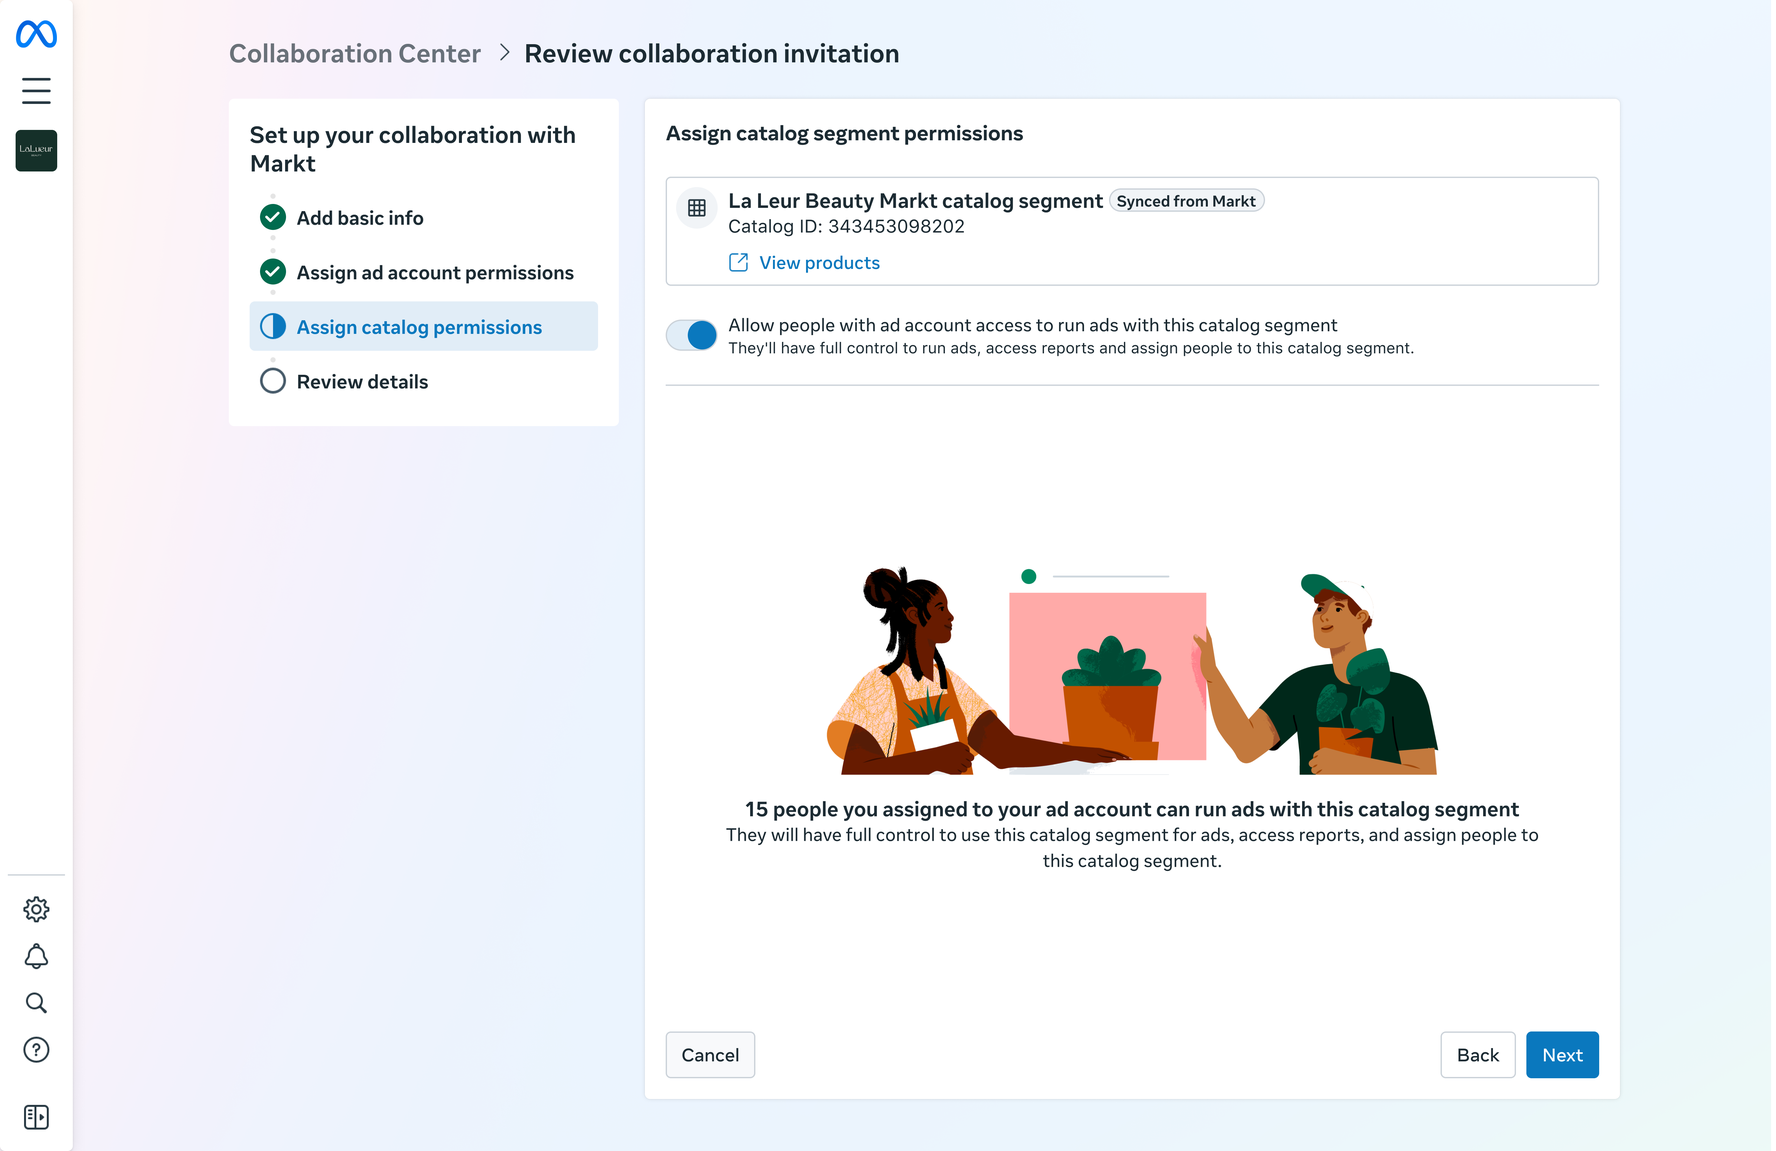
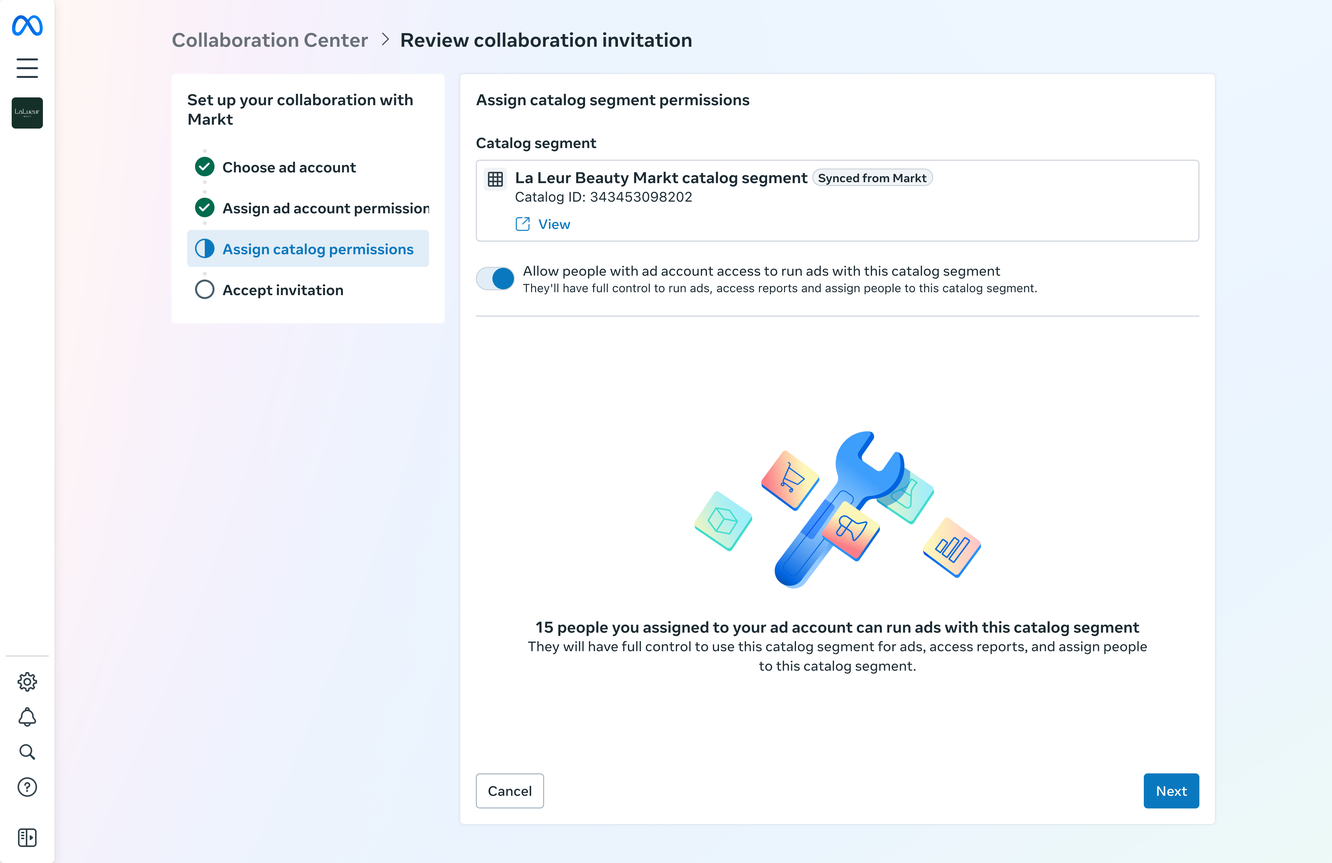
Collab Ads edits
Case study optimisations nad improvements

diff --git a/collab-ads.html b/collab-ads.html
@@ -72,8 +72,8 @@
       <!-- LEFT CONTAINER -->
         <main class="leftContainer">
             <div class="leftContent">
-              <h4 id="featureNumber">01</h4><h3 id="featureTitle" >Collaborative Ads Brand Onboarding</h3>
-              <h2 class="paragraphContinue" id="featureSummary">A two-phase redesign where retailer trust became the key to unlocking a larger structural change.</h2>
+              <h4 id="featureNumber">01</h4><h3 id="featureTitle" >Collaborative Ads Brand Onboarding & Activation</h3>
+              <h2 class="paragraphContinue" id="featureSummary">A two-phase redesign that reduced retailer overhead, rebuilt confidence in the product, and shifted onboarding from retailer-led to brand-initiated.</h2>
             </div>
             <!-- superscript -->
             <div class="leftContent leftImg" id="superContent1">
@@ -95,16 +95,15 @@
         <main class="rightContainer">
           <div class="projectCoverImg"><img src="assets/images/collab-ads/CPAS Cover.png"></div>
           <section class="projectIntroGrid">
-            <h5 id="title">Collaborative Ads Brand Onboarding</h5>
-            <h1 id="summary">A two-phase redesign where retailer trust became the key to unlocking a larger structural change.</h1>
+            <h5 id="title">Collaborative Ads Brand Onboarding & Activation</h5>
+            <h1 id="summary">A two-phase redesign that reduced retailer overhead, rebuilt confidence in the product, and shifted onboarding from retailer-led to brand-initiated.</h1>
             <div id="contributions">
               <h3 class="blockHeading">Key contributions</h3>
               <ul class="blockText paragraphBottom">
-                <li>Redirected Phase 1 before build began. Ran a UX audit, reframed scope around the highest-friction gaps, and got leadership aligned to change direction.</li>
-                <li>Consolidated seven independently scoped initiatives into a single workstream and secured investment for Phase 2 through Design and Product Reviews.</li>
-                <li>Defined the vision for self-serve Collaborative Ads onboarding and co-developed the strategy with PM and engineering.</li>
-                <li>Co-presented onboarding concepts directly to retailer partners and used partner feedback to reshape the implementation strategy.</li>
-                <li>Led design execution across onboarding improvements and the new self-serve experience.</li>
+                <li>Evaluated the existing Phase 1 direction, reframed how key friction points were addressed based on retailer and brand workflows, and secured leadership buy-in before implementation.</li>
+                <li>Unified 7 separately scoped roadmap projects into one workstream, giving the team end-to-end visibility across the problem space and revealing that one initiative was already solved by the proposed direction.</li>
+                <li>Led the vision for a brand-initiated onboarding and activation experience and shaped the strategy with PM and Engineering.</li>
+                <li>Co-presented concepts to retailer partners and used their feedback to reshape the implementation strategy.</li>
               </ul>
             </div>
             <div id="role">
@@ -121,22 +120,26 @@
             </div>
             <div id="overview">
               <hr class="sectionDivider">
-              <p><a href="https://en-gb.facebook.com/business/tools/collaborative-ads" target="_blank"><span class="colorChange bodyLink">Collaborative Ads ↗</span></a> lets brands run ads that direct buyers to their product pages on a retailer's website or app. Three parties are involved: brands run the ads, retailers host the catalog and process the sale, Meta connects them. Before a brand can run any ads, a retailer has to send them a collaboration request, and that process was broken in ways neither side could easily fix on their own.</p>
-              <p class="paragraphContinue paragraphBottom">The deeper problem wasn't just friction. Onboarding was structurally dependent on retailer workflows: retailers initiated requests, managed reviews, and absorbed the operational cost of every new brand they onboarded. More brands meant more retailer work, which naturally incentivised partners to gate access and prioritise their largest advertisers. Most brands discovered the product only when a retailer personally reached out, waited weeks for manual review, and still weren't set up to run their first ad by the end of it.</p>
+              <p><a href="https://en-gb.facebook.com/business/tools/collaborative-ads" target="_blank"><span class="colorChange bodyLink">Collaborative Ads ↗</span></a> lets brands run ads that direct buyers to their products sold through retailer websites and apps. Brands run the ads, retailers own the catalog and fulfil the sale, and Meta connects them.</p>
+              <p class="paragraphContinue">Before a brand could advertise, a retailer had to send them a collaboration invitation. The process was broken in ways neither side could easily fix on their own.</p>
+              <p class="paragraphContinue">The deeper problem wasn't just friction. Onboarding was highly dependent on retailers: retailers initiated requests, managed reviews, and absorbed the operational cost of every new brand they onboarded. More brands meant more retailer work, which incentivised retailers to gate access and prioritise their largest advertisers. Most brands discovered the product only when a retailer reached out, waited weeks for manual review, and still weren't ready to run ads by the end of it.</p>
+              <p class="paragraphContinue paragraphBottom">Phase 1 reduced retailer overhead and rebuilt confidence in Collaborative Ads. Phase 2 shifted onboarding from a retailer-managed process to a brand-initiated one.</p>
               <img src="assets/images/collab-ads/how-it-works.png" style="width: 100%; display: block; margin-bottom: 1.5rem;">
-              <p class="paragraphBottom">Retailers had spent years working around a product that hadn't kept pace with their needs. Before asking them to support a more ambitious onboarding model, we needed to demonstrate that we understood the problems they faced every day, and were willing to invest in fixing them. Phase 1 focused on rebuilding that confidence. Phase 2 used it to build something more ambitious.</p>
               <h2>This project is under NDA. Screens shown here have shipped publicly. Full case study is available on request.</h2>
             </div>
             <hr class="sectionDivider">
           </section>
-           <section class="projectContent">
+           <!-- <section class="projectContent">
             <h5 class="projectHeading">Why onboarding mattered</h5>
             <p class="projectText">Collaborative Ads had limited opportunities for product-led growth. Most performance improvements depended on broader ads infrastructure outside the team's control. Onboarding was different: increasing the number of brands using Collaborative Ads was the highest-leverage growth opportunity the team could directly influence, and new brand acquisition had been slowing for two years. That made onboarding the focal point for investment.</p>
             <p class="projectText paragraphContinue paragraphBottom">Retailers had spent years working around a product that hadn't kept pace with their needs. Before asking them to support a more ambitious onboarding model, we needed to demonstrate that we understood the problems they faced every day and were willing to invest in fixing them. Phase 1 focused on rebuilding that confidence. Phase 2 used it to make a structural change.</p>
-          </section>
+          </section> -->
           <section class="projectContent">
-            <h5 class="projectHeading">Phase 1: Friction fixes</h5>
-            <p class="projectText paragraphBottom">I joined the team when a solution was already scoped. After running a UX audit and reviewing research, I paused the build, reframed the scope around the gaps that were actually breaking the experience, and got leadership aligned to change direction before any code was written. We shipped improvements to collaboration term enforcement, permissions assignment, and notifications.</p>
+            <h5 class="projectHeading">Phase 1: Reducing retailer overhead</h5>
+            <p class="projectText">When I joined the team, a direction had already been scoped. Before committing to implementation, I audited the retailer and brand experience, reviewed partner feedback, and formed my own view of where the biggest onboarding constraints were. I got leadership and team buy-in to revise the approach before build began.</p>
+            <p class="projectText paragraphContinue">While the friction points were already known, I identified which were worth prioritising in this phase and reshaped how we addressed them. We focused on the changes that would have the greatest impact on retailer and brand workflows, while staying within the constraints of the product and timeline.</p>
+             <p class="projectText paragraphContinue">Retailers had collaboration requirements but no way to enforce them— brands sent screenshots to prove compliance and waited for manual verification. 80% of brands didn't know an invitation was waiting because we never notified them. Permissions were treated as a secondary step, even though assigning access to both the ad account and catalog segment determined whether a brand could run ads at all.</p>
+             <p class="projectText paragraphContinue paragraphBottom">Together, they turned onboarding into a manual, time-consuming process for retailers and left brands waiting weeks to complete setup.</p>
             <img src="assets/images/collab-ads/phase-1-overview.png" style="grid-column: 4 / 9; width: 100%; display: block; margin-bottom: 1.5rem;">
 
             <!-- Highlights -->
@@ -144,40 +147,36 @@
             <div class="deliverablesImg3"><img src="assets/images/collab-ads/set-up-terms.PNG"></img></div>
             <div class="deliverablesImg1"><img src="assets/images/collab-ads/invitation-enforced.png"></img></div>
 
+            <h1 class="deliverablesHeading2">No more manual invitation follow-ups</h1>
+            <div class="deliverablesImg3"><img src="assets/images/collab-ads/email-notifications.png"></img></div>
+            
             <h1 class="deliverablesHeading1">Automate where safe, hold where it matters</h1>
             <div class="deliverablesImg2"><img src="assets/images/collab-ads/ad-account-permissions.PNG"></img></div>
             <div class="deliverablesImg2"><img src="assets/images/collab-ads/catalog-permissions.PNG"></img></div>
-            <p class="deliverablesText2">Not all permissions carry the same risk. Ad account permissions, which involve access to spend and billing, stay manual. Catalog segment permissions, which let a brand's team use retailer products in ads, are <span id="super"><span class="inlineSuperscript">auto-granted to anyone with ad account access.<span class="superscript" id="superSmall" data-note="superContent1">1</span></span></span> The result is that the people responsible for running ads aren't blocked from accessing products the moment setup completes.</p>
+            <p class="deliverablesText2">Ad account permissions, which give teams access to spend and billing, remain manually assigned. Catalog segment permissions, which give access to products, are <span id="super"><span class="inlineSuperscript">auto-granted to anyone with ad account access.<span class="superscript" id="superSmall" data-note="superContent1">1</span></span></span></p>
             
             <!-- Phase 1 Outcomes -->
 
           <h1 class="projectHeading">Results</h1>
           <div class="blockGroup">
-            <h3 class="blockHeading">Outcomes</h3>
-            <ul class="blockText">
-              <li>Onboarding completion rate increased by 13%</li>
-              <li>Reduced operational friction for retailers managing collaborations</li>
-              <li>Contributed to growth in new brands onboarding alongside launch go-to-market efforts</li>
-            </ul>
-
-            <h3 class="blockHeading paragraphContinue">What it unlocked</h3>
             <ul class="blockText paragraphBottom">
-              <li>Retailers began actively promoting Collaborative Ads to brands selling with them</li>
-              <li>Created the trust required to pursue self-serve onboarding</li>
-              <li>Aligned product, GTM, and partner teams around onboarding as the primary growth lever</li>
+              <li>Onboarding completion rate increased by 13%</li>
+              <li>Retailers increased investment in Collaborative Ads and actively promoted it to brands</li>
             </ul>
           </div>
 
           <hr class="sectionDivider">
             
-            <h5 class="projectHeading">Phase 2: Brand initiated onboarding</h5>
-            <p class="projectText">With retailer trust established, I led the vision to restructure onboarding as brand-initiated. Initial concepts required retailer engineering resources and retailer-owned infrastructure to implement. Through partner conversations, we learned that retailers loved the direction, but couldn't commit what the original approach required. That insight shifted the strategy: rather than building an onboarding model that depended on systems outside our control, we redesigned around surfaces Meta owned. Retailers maintained oversight over brand onboarding, but the operational burden was removed.</p>
-            <p class="projectText paragraphContinue paragraphBottom">The final model introduced two paths: a fully self-serve flow for brands whose retailers had launched the model, and a structured collaboration request flow for everyone else.</p>
+            <h5 class="projectHeading">Phase 2: From retailer-led to brand-initiated</h5>
+            <p class="projectText">Phase 1 reduced retailer overhead and rebuilt confidence in the product. With the foundations in place, a harder problem remained: brands could only start using Collaborative Ads if a retailer sent them an invitation.</p>
+            <p class="projectText paragraphContinue">We knew reducing onboarding friction alone wouldn't be enough. I led the vision for an end-to-end experience spanning discovery, onboarding, and activation, bringing Collaborative Ads to the surfaces brands already used and reducing retailer involvement throughout the process.</p>
+            <p class="projectText paragraphContinue">We pitched the concept to our largest retailer partners. All liked the idea, but only one could commit. The others lacked the resources, couldn't meet our timeline, or hadn't launched their own brand portals yet.</p>
+            <p class="projectText paragraphContinue paragraphBottom">That forced a strategic pivot. Rather than relying on retailer-owned surfaces, we shifted the experience to Collaboration Center, Meta's hub for retailer-brand collaborations. It had significantly less traffic, but gave us full control and the ability to scale independently.</p>
             <img src="assets/images/collab-ads/phase-2-overview.png" style="grid-column: 4 / 9; width: 100%; display: block; margin-bottom: 1.5rem;">
 
             <h1 class="deliverablesHeading2">One entrypoint for all brands</h1>
             <div class="deliverablesImg3"><img src="assets/images/collab-ads/form-full.gif"></img></div>
-            <p class="deliverablesText1">Not every retailer could support self-serve onboarding from day one, as making self-serve onboarding available requires bespoke engineering work per retailer. Rather than building separate entry points for different retailer paths, we designed a single form that routes based on retailer selection: self-serve where available, collaboration request where it isn't. The same entry point works for brands or anyone acting on the brand's behalf, including agencies, who manage the majority of Collaborative Ads campaigns.</p>
+            <p class="deliverablesText1">Brands shouldn't need to understand which onboarding model a retailer supports. Rather than creating separate entry points, we designed a single form that routes based on retailer selection: self-serve where available, a guided collaboration request where it isn't.</p>
 
             <h1 class="deliverablesHeading1">Real-time verification</h1>
             <div class="deliverablesImg1"><img src="assets/images/collab-ads/verify-url.gif"></img></div>
@@ -185,26 +184,16 @@
               
             <h1 class="deliverablesHeading3">A direct path to the first ad</h1>
             <div class="deliverablesImg3"><img src="assets/images/collab-ads/run-ads.GIF"></img></div>
-            <p class="deliverablesText3">
-
-36% of brands who completed onboarding never ran an ad. One hypothesis was that there was no clear path to ad creation after setup, the obvious next step. The Overview tab tests that hypothesis: a direct entry point to run a Collaborative Ads campaign with defaults applied, alongside any remaining setup actions, so the path forward is visible the moment setup is done.</p>
+            <p class="deliverablesText3">36% of brands who completed onboarding never ran an ad. One hypothesis was that there was no clear path to ad creation after setup. The Overview tab tests that hypothesis by providing a direct entry point to launch a Collaborative Ads campaign with defaults applied, alongside any remaining setup actions.</p>
 
           <!-- Phase 2 Outcomes -->
            <h1 class="projectHeading">Results</h1>
           <div class="blockGroup">
-            <h3 class="blockHeading">Outcomes</h3>
-            <ul class="blockText">
-              <li>Self-serve onboarding launched with one major retailer partner, with two more implementing the model, together representing a significant share of product revenue</li>
-              <li>Exceeded the daily revenue goal by ~37%</li>
-              <li>Onboarded thousands of new brands in the first weeks post-launch</li>
-            </ul>
-
-            <h3 class="blockHeading paragraphContinue">What it unlocked</h3>
             <ul class="blockText paragraphBottom">
-              <li>Gave retailers a reason to open Collaborative Ads to more brands, as onboarding no longer required proportional effort on their side</li>
-              <li>Our largest retailer made Collaborative Ads available to every brand on their platform for the first time, something the manual overhead had previously made unworkable</li>
-              <li>Created a path for brands to onboard and start advertising without needing retailer involvement</li>
-              <li>Set up the next phase of investment in brand activation and self-serve growth</li>
+              <li>Our largest retailer made Collaborative Ads available to every brand on their platform for the first time.</li>
+              <li>Exceeded the daily revenue goal by ~37%.</li>
+              <li>Onboarded thousands of new brands in the first weeks post-launch.</li>
+              <li>Self-serve onboarding launched with our largest retailer partner, with four more in implementation.</li>
             </ul>
           </div>
 
@@ -212,7 +201,7 @@
 
           <!-- Key Takeaway -->
           <h5 class="projectHeading">Key Takeaway</h5>
-          <p class="projectText paragraphBottom">Phase 1 wasn't just about fixing friction — it was the foundation that made a structural ask possible. Our top retailers extended Collaborative Ads to every brand on their platform because we'd already shown we understood their workflow. Trust isn't a soft outcome, it determines what you can build next.</p>
+          <p class="projectText paragraphBottom">Phase 1 wasn't just about fixing friction, it created the conditions for a larger structural change. Our largest retailer made Collaborative Ads available to every brand on their platform because we'd already shown we understood their workflow and constraints. Trust isn't a soft outcome; it determines what you can build next.</p>
       </section>
     </main>
   </body>

diff --git a/assets/js/script.js b/assets/js/script.js
@@ -209,6 +209,55 @@ $(window).scroll(function() {
   }
 });
 
+/* LIGHTBOX */
+(function() {
+  function initLightbox() {
+    var overlay = document.createElement('div');
+    overlay.className = 'lightbox-overlay';
+
+    var closeBtn = document.createElement('button');
+    closeBtn.className = 'lightbox-close';
+    closeBtn.setAttribute('aria-label', 'Close');
+    closeBtn.textContent = '✕';
+
+    var img = document.createElement('img');
+    img.className = 'lightbox-img';
+
+    overlay.appendChild(closeBtn);
+    overlay.appendChild(img);
+    document.body.appendChild(overlay);
+
+    function openLightbox(src) {
+      img.src = src;
+      overlay.classList.add('is-open');
+      document.body.style.overflow = 'hidden';
+    }
+
+    function closeLightbox() {
+      overlay.classList.remove('is-open');
+      document.body.style.overflow = '';
+      img.src = '';
+    }
+
+    closeBtn.addEventListener('click', closeLightbox);
+
+    document.addEventListener('keydown', function(e) {
+      if (e.key === 'Escape') closeLightbox();
+    });
+
+    // Wire up all images except those inside .projectCoverImg
+    document.querySelectorAll('img').forEach(function(el) {
+      if (el.closest('.projectCoverImg')) return;
+      el.classList.add('lightbox-trigger');
+      el.addEventListener('click', function() {
+        openLightbox(el.src);
+      });
+    });
+  }
+
+  document.addEventListener('DOMContentLoaded', initLightbox);
+})();
+
 document.addEventListener('DOMContentLoaded', function() {
 
   /* Per-element random color for external links — squiggle colored on load, text on hover */

diff --git a/assets/css/style.css b/assets/css/style.css
@@ -378,7 +378,7 @@ img {
 #featureNumber {
     float: left;
     display: inline-block;
-    padding: 0em 2em 0 0;
+    padding: 0em 1em 0 0;
     transition: opacity 0.4s ease;
 }
 
@@ -490,6 +490,7 @@ img {
     grid-column: 1 / 4;
     float: left;
     margin-top: 1rem;
+    margin-right: 1rem;
 }
 
 .projectText {
@@ -499,7 +500,7 @@ img {
 }
 
 .paragraphContinue {
-    margin-top: 1rem;
+    margin-top: 1.2rem;
 }
 
 .video {
@@ -714,6 +715,52 @@ path.arrow {
 
   /* Hide superscript numbers — left panel not visible on mobile */
   .superscript {display: none;}
+}
+
+/* LIGHTBOX */
+.lightbox-overlay {
+  display: none;
+  position: fixed;
+  inset: 0;
+  z-index: 1000;
+  background: rgba(0, 0, 0, 0.88);
+  align-items: center;
+  justify-content: center;
+}
+
+.lightbox-overlay.is-open {
+  display: flex;
+}
+
+.lightbox-img {
+  max-width: 90vw;
+  max-height: 88vh;
+  object-fit: contain;
+  display: block;
+}
+
+.lightbox-close {
+  position: fixed;
+  top: 1.25rem;
+  right: 1.5rem;
+  background: none;
+  border: none;
+  color: #F6F6F2;
+  font-size: 1.5rem;
+  line-height: 1;
+  cursor: pointer;
+  padding: 0.25rem 0.5rem;
+  opacity: 0.8;
+  transition: opacity 0.15s ease;
+}
+
+.lightbox-close:hover {
+  opacity: 1;
+}
+
+/* Cursor pointer on lightbox-able images */
+img.lightbox-trigger {
+  cursor: zoom-in;
 }
 
 /* Smartphone screen width */

diff --git a/index.html b/index.html
@@ -77,12 +77,12 @@
 <!--            COLLAB ADS-->
           <section class="featureProject" id="cpas" onmouseover="cpasOver();" onmouseout="cpasOut()">
               <div class="stickyHeader" id="cpasHeader">
-                  <h4 id="featureNumber">01</h4><h3>Collaborative Ads Brand Onboarding</h3>
+                  <h4 id="featureNumber">01</h4><h3>Collaborative Ads Brand Onboarding & Activation</h3>
               </div>
             <section class="featureContent">
               <div class="featureText">
                  <div class="featureCaption">
-                     <h2>A two-phase redesign where retailer trust became the key to unlocking a larger structural change.</h2>
+                     <h2>A two-phase redesign that reduced retailer overhead, rebuilt confidence in the product, and shifted onboarding from retailer-led to brand-initiated.</h2>
                  </div>
                   <div class="featureSkills">
                       <h4>Product Design · Design Vision · Systems Thinking · Cross-functional alignment</h4>
